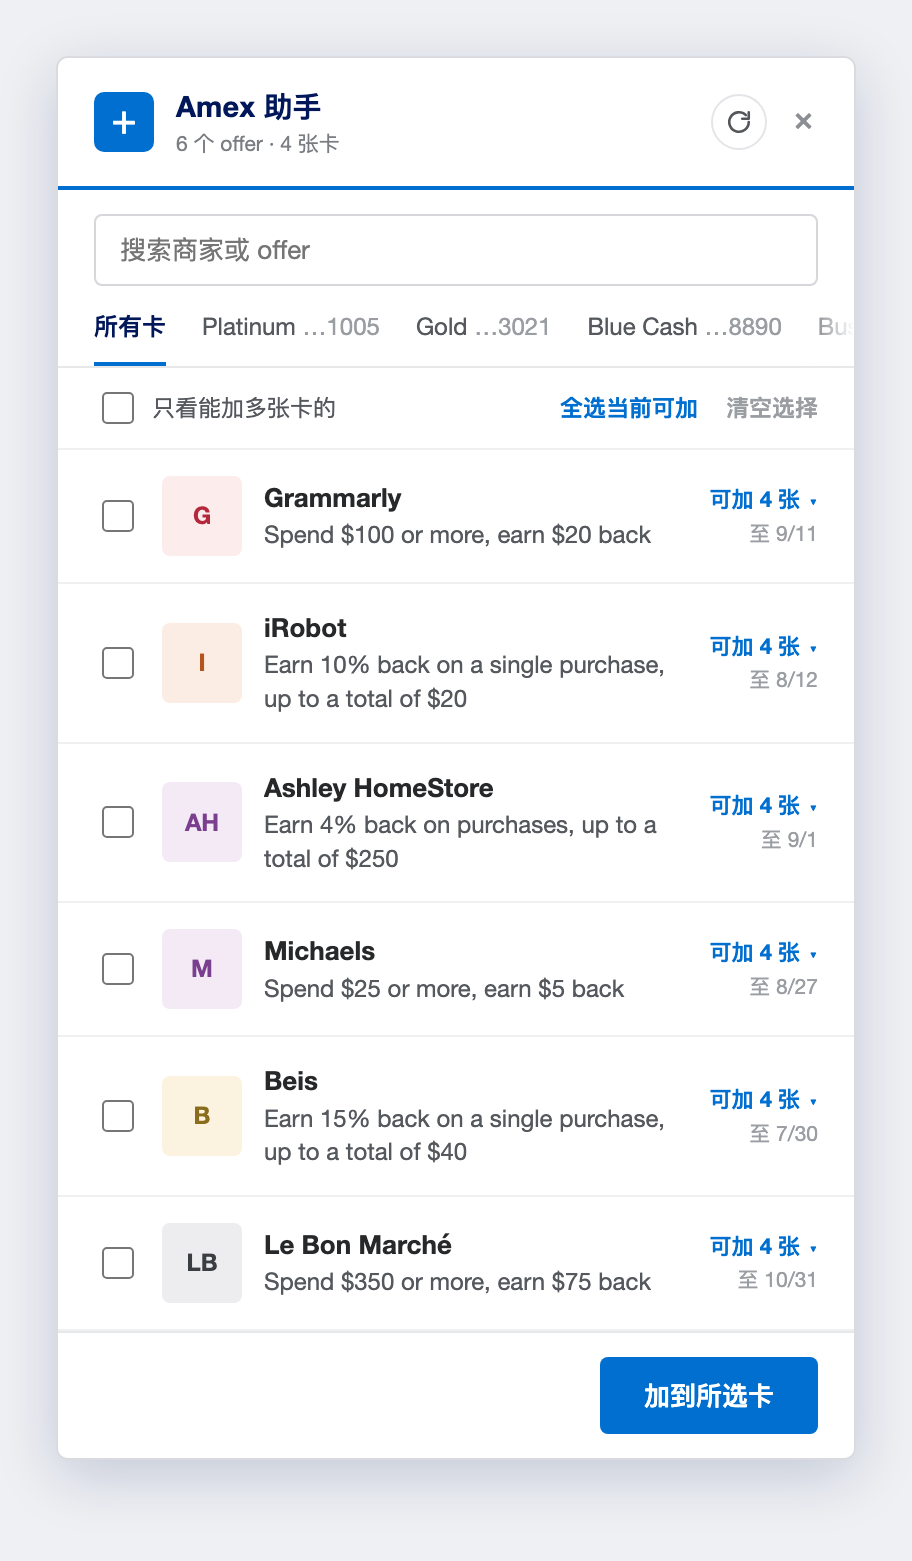
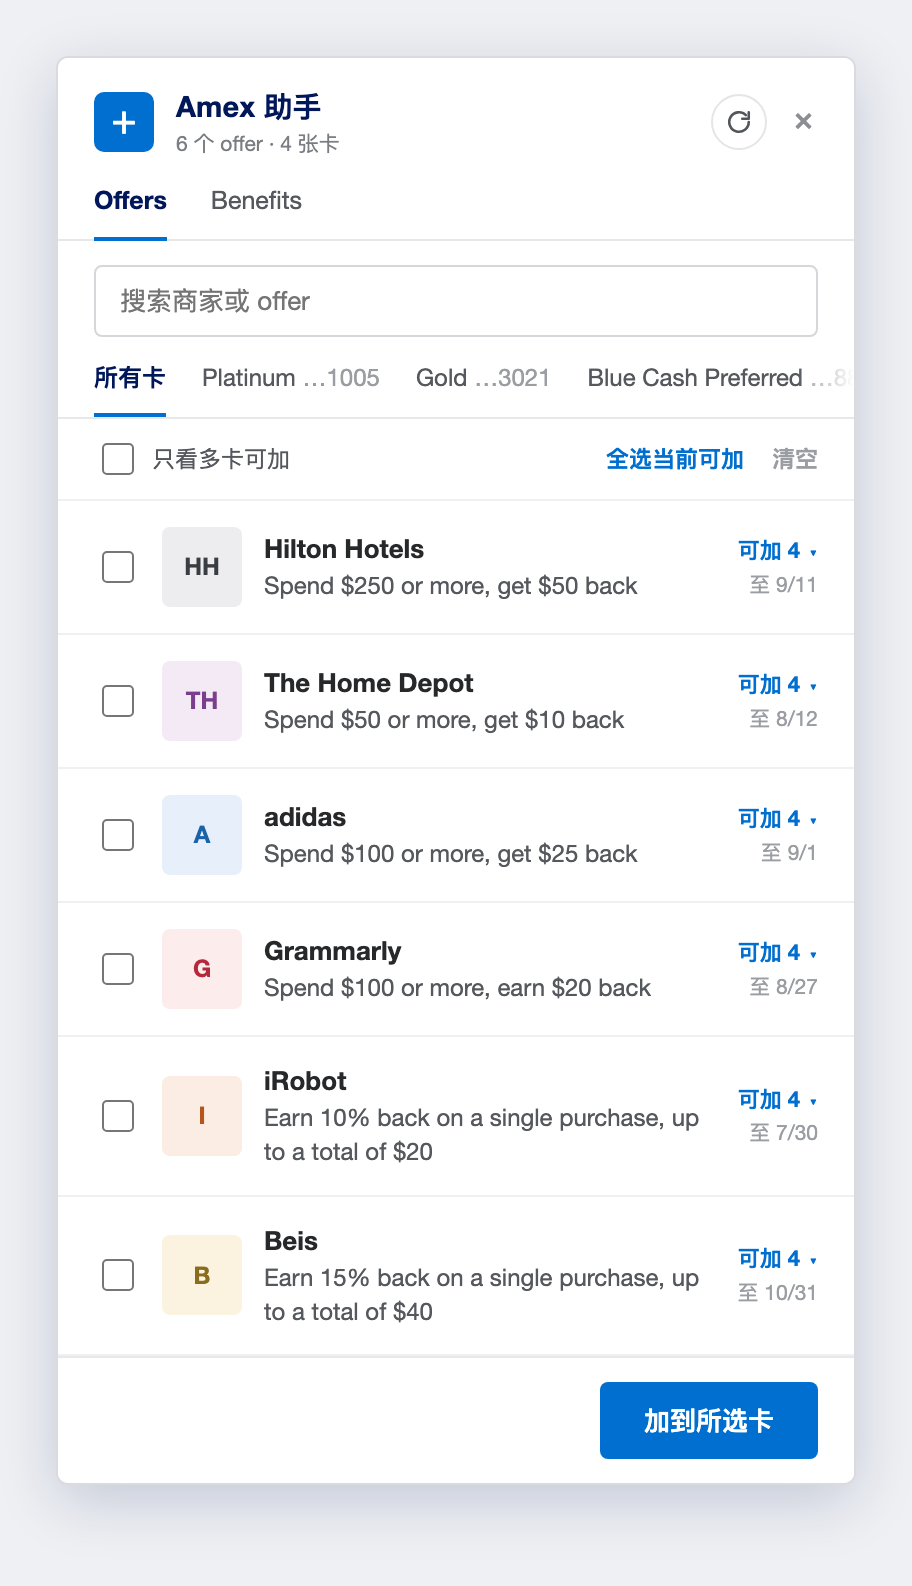
README: screenshot gallery + Benefits (#7)
* README: add a 3-up screenshot gallery + Benefits

Refresh the hero into a gallery — Offers (add across cards), Verify (per-card
result), Benefits (credits dashboard) — and mention the Benefits tab in the
intro and Features. Screenshots are clean offline renders of the current UI
(no real account data).

* Center the screenshot gallery table

---------

diff --git a/README.md b/README.md
@@ -7,7 +7,9 @@
 Amex only lets you add an Offer to one card at a time, and adding it to one card
 often makes it vanish from the others. Amex Assistant reads every card's offers
 into one panel, fires your pick at all eligible cards together, then re-reads
-each card to tell you which ones **actually** got it.
+each card to tell you which ones **actually** got it. A second **Benefits** tab
+tracks every statement credit (dining, airline fee, CLEAR…) across all your
+cards — how much you've used, what's expiring, and what's left to activate.
 
 <br>
 
@@ -22,7 +24,13 @@ each card to tell you which ones **actually** got it.
 
 <br>
 
-<img src="docs/panel.png" alt="The Amex Assistant panel: one offer selected across all eligible cards" width="410">
+<table align="center">
+<tr valign="top">
+<td width="33%"><img src="docs/panel.png" alt="Offers list across cards"><br><sub><b>Offers</b> — pick one, add it to every eligible card</sub></td>
+<td width="33%"><img src="docs/result.png" alt="Per-card verification result"><br><sub><b>Verify</b> — re-reads each card, reports what actually landed</sub></td>
+<td width="33%"><img src="docs/benefits.png" alt="Benefits dashboard"><br><sub><b>Benefits</b> — every statement credit, tracked across cards</sub></td>
+</tr>
+</table>
 
 </div>
 
@@ -44,6 +52,9 @@ each card to tell you which ones **actually** got it.
   on a throttle/interception signal (HTTP 429/403) the run stops early instead
   of pushing through — unsubmitted pairs are reported as `skipped` for a later
   retry.
+- **Benefits dashboard.** A second tab reads every card's statement credits and
+  aggregates them across cards — used vs. remaining, days left, a multi-card
+  breakdown per credit, and the ones you haven't activated yet.
 - **Private by construction.** `@grant none` means the script is *technically
   unable* to reach any third party — no backend, no telemetry, no IP collection.
 - **Zero build.** The userscript is the whole artifact; the network layer is
